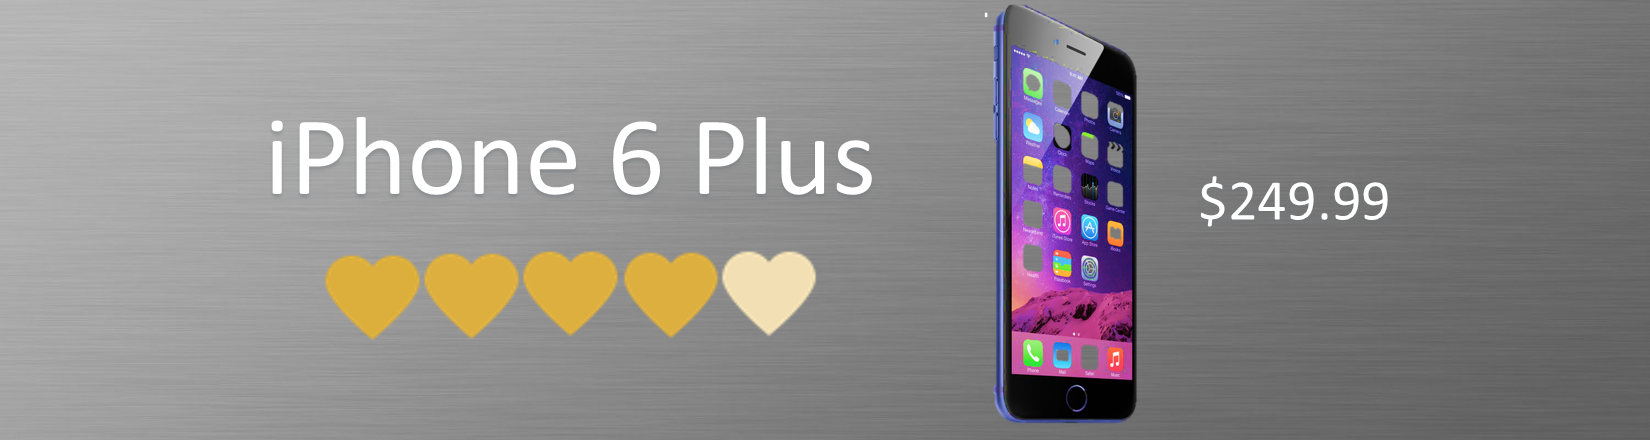
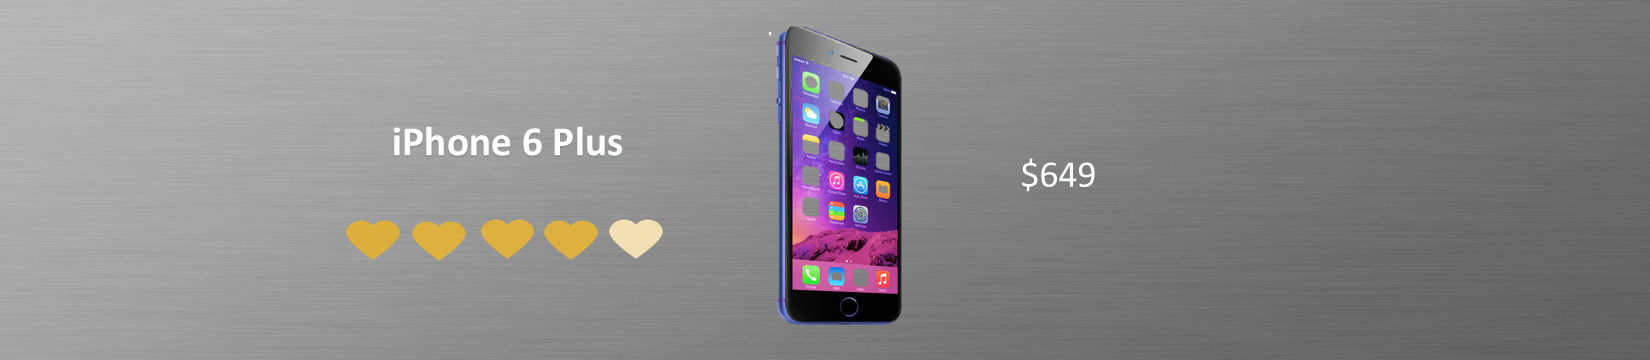
Add images for hot products

Changed region(s): [[0.1545, 0.0611, 0.5564, 0.9167], [0.5873, 0.0, 0.8655, 0.9778]]

diff --git a/src/main/webapp/home.html b/src/main/webapp/home.html
@@ -36,36 +36,20 @@
 
     <section>
         <div class="content-wrapper">
-
-            <!-- <h3>Hot Products</h3> -->
-
+            
             <div class = "row">
                 <div id="carousel-example-generic" class="carousel slide" data-ride="carousel">
                     <!-- Indicators -->
                     <ol class="carousel-indicators">
                         <li data-target="#carousel-example-generic" data-slide-to="0" class="active"></li>
                         <li data-target="#carousel-example-generic" data-slide-to="1"></li>
-                        <li data-target="#carousel-example-generic" data-slide-to="2"></li>
-                    </ol>
+<!--                         <li data-target="#carousel-example-generic" data-slide-to="2"></li>
+ -->                    </ol>
 
                     <!-- Wrapper for slides -->
-                    <div class="carousel-inner" role="listbox">
-                        <!-- <div class="item active">
-                            <img src="images/hero-shoes.jpg" alt="Image" class="img-responsive" style="margin:0 auto">
-                            <div class="carousel-caption">
-
-                            </div>
-                        </div>
-                        <div class="item">
-                            <img src="images/bosch.jpg" alt="Image" class="img-responsive" style="margin: 0 auto">
-                            <div class="carousel-caption">
-
-                            </div>
-                        </div>
-                         -->
-
+                    <div class="carousel-inner" role="listbox">                      
                          <div class="item active hot-product-background">
-                            <img src="images/hot-iphone6plus-background1.png" class-"img-responsive">
+                            <img src="images/hot-iphone6plus-background.png" class-"img-responsive">
                      
                             <!-- <div class="carousel-caption">
                                 <span style="font-size:20px">iPhone 6</span>
@@ -73,16 +57,13 @@
                          </div>
 
                          <div class="item hot-product-background">
-                            <img src="images/hot-iphone6plus-background1.png" class-"img-responsive">
-                            <!-- <img src="images/hot-product-background.jpg" class-"img-responsive"> -->
-                           
+                            <img src="images/hot-michael-kors-mens-watch-background.png" class-"img-responsive">
+                            
                            <!--  <div class="carousel-caption">
                                 <span style="font-size:20px">iPhone 6</span>
                             </div> -->
                          </div>
                     </div>
-
-
 
                     <!-- Controls -->
                     <!--  <a class="left carousel-control" href="#carousel-example-generic" role="button" data-slide="prev">
